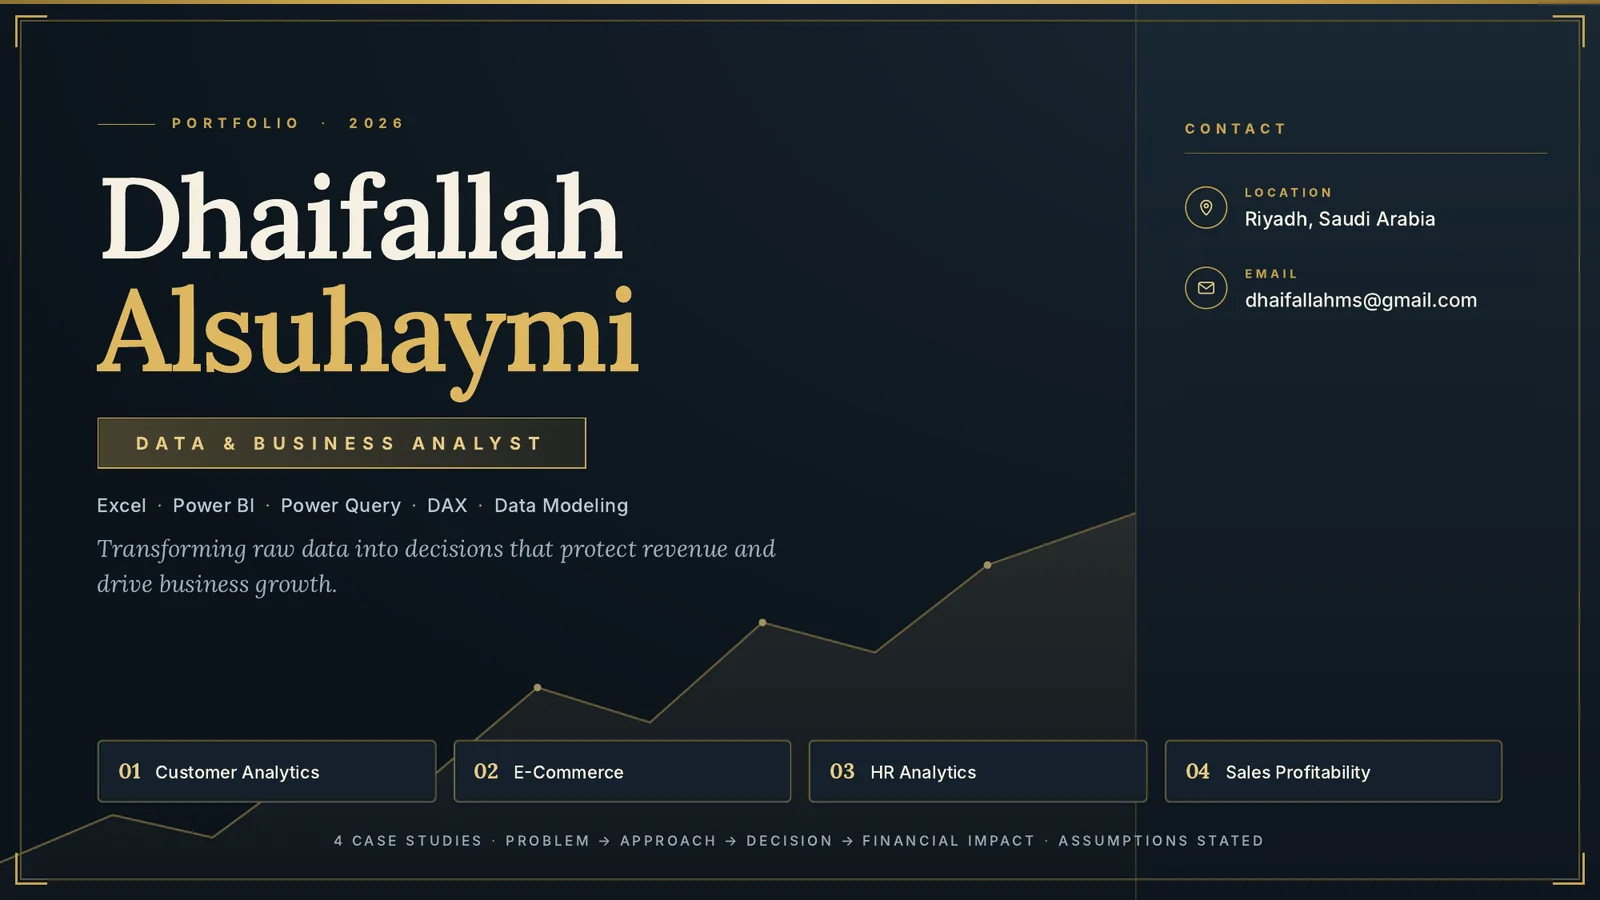
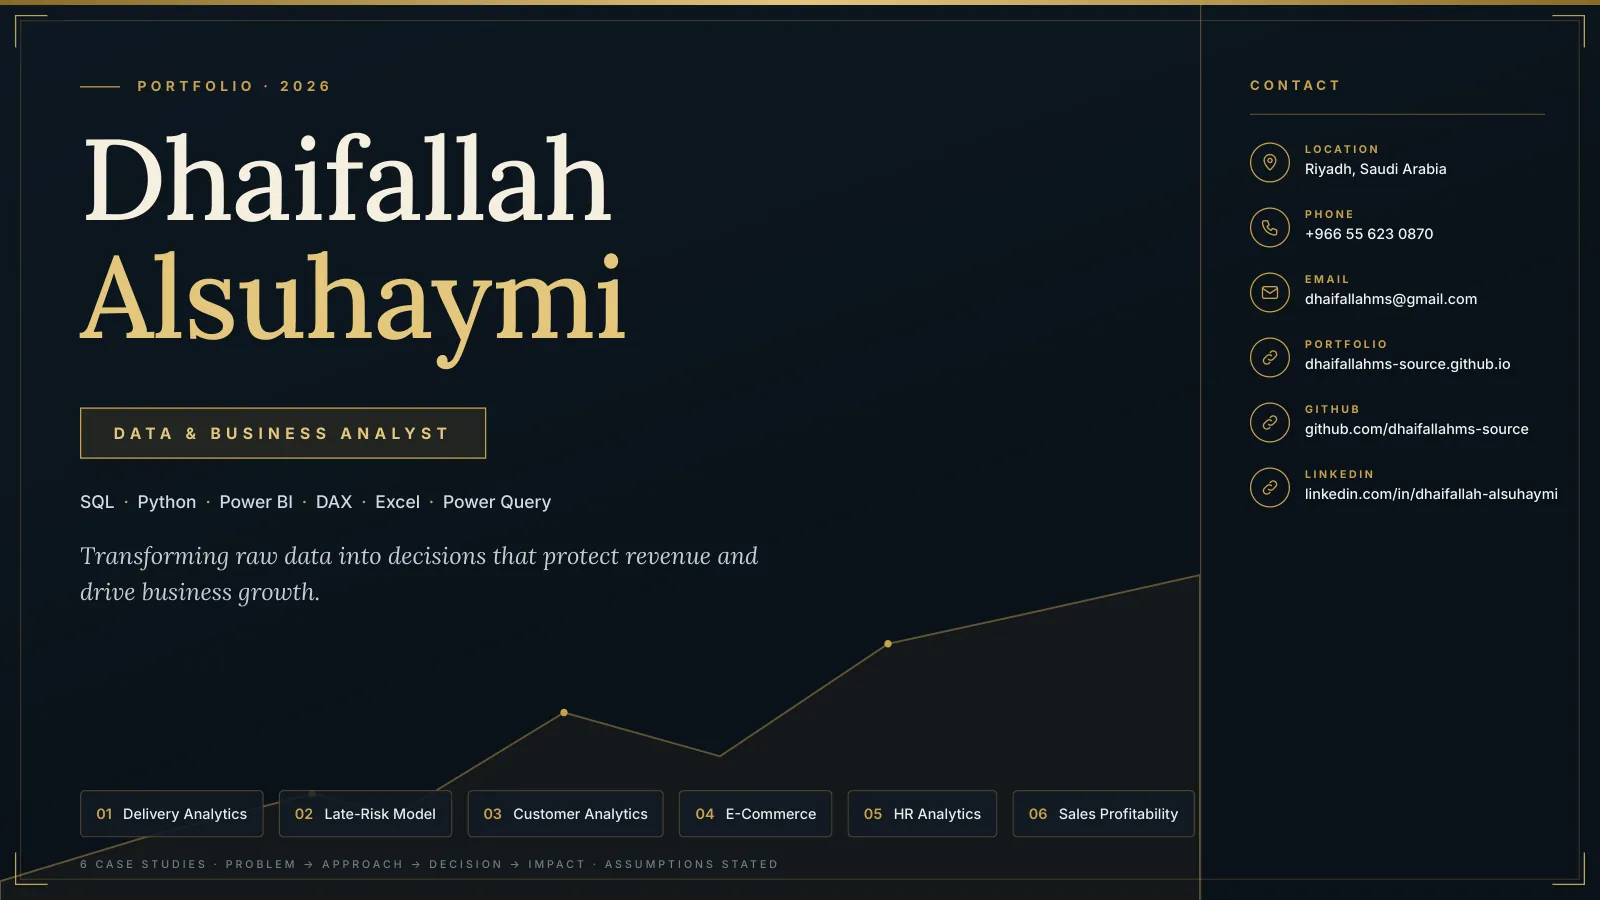
Add files via upload

diff --git a/index.html b/index.html
@@ -4,10 +4,10 @@
 <meta charset="utf-8">
 <meta name="viewport" content="width=device-width, initial-scale=1">
 <title>Dhaifallah Alsuhaymi · Data & Business Analyst Portfolio</title>
-<meta name="description" content="Data & Business Analyst portfolio: 4 case studies in Excel, Power Query, Power BI and DAX covering customer churn, e-commerce revenue, HR attrition and sales profitability.">
+<meta name="description" content="Data & Business Analyst portfolio: 6 projects in SQL Server, Python, Power BI and DAX covering delivery risk, customer churn, e-commerce revenue, HR attrition and sales profitability.">
 <meta property="og:type" content="website">
 <meta property="og:title" content="Dhaifallah Alsuhaymi · Data & Business Analyst">
-<meta property="og:description" content="4 case studies: problem → approach → decision → financial impact. Excel · Power BI · Power Query · DAX.">
+<meta property="og:description" content="6 projects: problem → approach → decision → financial impact. SQL Server · Python · Power BI · DAX.">
 <meta property="og:image" content="https://dhaifallahms-source.github.io/preview.jpg">
 <meta property="og:url" content="https://dhaifallahms-source.github.io/">
 <meta name="twitter:card" content="summary_large_image">
@@ -15,114 +15,117 @@
 <link rel="preconnect" href="https://fonts.gstatic.com" crossorigin>
 <link href="https://fonts.googleapis.com/css2?family=Inter:wght@400;500;600&family=Lora:wght@500;600&display=swap" rel="stylesheet">
 <style>
-  :root{--bg:#121c26;--panel:#18242f;--line:#2a3846;--gold:#c9a24b;--gold2:#e8cb84;--text:#f6f0e1;--muted:#9aacb9}
-  *{box-sizing:border-box;margin:0}
-  html{scroll-behavior:smooth}
-  body{background:var(--bg);color:var(--text);font:16px/1.6 Inter,system-ui,sans-serif;-webkit-font-smoothing:antialiased}
-  a{color:inherit}
-  .wrap{max-width:1120px;margin:0 auto;padding:0 20px}
-  header{padding:72px 0 48px;border-bottom:1px solid var(--line)}
-  .kicker{color:var(--gold);letter-spacing:.28em;font-size:12px;font-weight:600;text-transform:uppercase}
-  h1{font:600 clamp(40px,7vw,68px)/1.05 Lora,serif;margin:16px 0 12px}
-  h1 span{color:var(--gold2)}
-  .role{display:inline-block;border:1px solid var(--gold);color:var(--gold2);padding:6px 14px;letter-spacing:.2em;font-size:13px;font-weight:600;text-transform:uppercase}
-  .tools{color:var(--muted);margin-top:18px}
-  .tag{font:italic 500 19px/1.5 Lora,serif;margin-top:6px;max-width:620px}
-  .cta{display:flex;flex-wrap:wrap;gap:12px;margin-top:30px}
-  .btn{display:inline-flex;align-items:center;gap:8px;padding:12px 20px;font-weight:600;font-size:15px;text-decoration:none;border:1px solid var(--gold);transition:.2s}
-  .btn.primary{background:var(--gold);color:#121c26}
-  .btn.primary:hover{background:var(--gold2)}
-  .btn:not(.primary):hover{background:rgba(201,162,75,.12)}
-  section{padding:56px 0}
-  h2{font:600 28px/1.2 Lora,serif;margin-bottom:6px}
-  .sub{color:var(--muted);margin-bottom:28px}
-  .cards{display:grid;grid-template-columns:repeat(auto-fit,minmax(240px,1fr));gap:16px}
-  .card{display:block;background:var(--panel);border:1px solid var(--line);padding:22px;text-decoration:none;transition:.2s}
-  .card:hover{border-color:var(--gold);transform:translateY(-2px)}
-  .num{color:var(--gold2);font:600 14px Inter;letter-spacing:.1em}
-  .card h3{font:600 19px/1.3 Lora,serif;margin:8px 0}
-  .card p{color:var(--muted);font-size:14px}
-  .big{font:600 30px Lora,serif;color:var(--gold2);margin-top:14px}
-  .big small{display:block;font:500 12px Inter;color:var(--muted);letter-spacing:.04em}
-  .slides{display:grid;gap:22px}
-  figure{background:var(--panel);border:1px solid var(--line);scroll-margin-top:20px}
-  figure img{display:block;width:100%;height:auto;cursor:zoom-in}
-  img{-webkit-user-drag:none;user-select:none;-webkit-touch-callout:none}
-  figcaption{padding:10px 14px;color:var(--muted);font-size:13px;display:flex;justify-content:space-between;gap:12px}
-  footer{border-top:1px solid var(--line);padding:32px 0 48px;color:var(--muted);font-size:14px}
-  footer a{color:var(--gold2)}
-  dialog{border:0;padding:0;background:transparent;max-width:96vw;max-height:96vh}
-  dialog::backdrop{background:rgba(5,10,15,.92)}
-  dialog img{max-width:96vw;max-height:92vh;display:block}
-  dialog button{position:fixed;top:14px;right:18px;background:none;border:0;color:#fff;font-size:34px;cursor:pointer}
-  @media (max-width:600px){header{padding:48px 0 36px}section{padding:40px 0}.btn{flex:1;justify-content:center}}
+:root{--bg:#121c26;--panel:#18242f;--line:#2a3846;--gold:#c9a24b;--gold2:#e8cb84;--text:#f6f0e1;--muted:#9aacb9}
+*{box-sizing:border-box;margin:0}
+html{scroll-behavior:smooth}
+body{background:var(--bg);color:var(--text);font:16px/1.6 Inter,system-ui,sans-serif;-webkit-font-smoothing:antialiased}
+a{color:inherit}
+.wrap{max-width:1120px;margin:0 auto;padding:0 20px}
+header{padding:72px 0 48px;border-bottom:1px solid var(--line)}
+.kicker{color:var(--gold);letter-spacing:.28em;font-size:12px;font-weight:600;text-transform:uppercase}
+h1{font:600 clamp(40px,7vw,68px)/1.05 Lora,serif;margin:16px 0 12px}
+h1 span{color:var(--gold2)}
+.role{display:inline-block;border:1px solid var(--gold);color:var(--gold2);padding:6px 14px;letter-spacing:.2em;font-size:13px;font-weight:600;text-transform:uppercase}
+.tools{color:var(--muted);margin-top:18px}
+.tag{font:italic 500 19px/1.5 Lora,serif;margin-top:6px;max-width:620px}
+.cta{display:flex;flex-wrap:wrap;gap:12px;margin-top:30px}
+.btn{display:inline-flex;align-items:center;gap:8px;padding:12px 20px;font-weight:600;font-size:15px;text-decoration:none;border:1px solid var(--gold);transition:.2s}
+.btn.primary{background:var(--gold);color:#121c26}
+.btn.primary:hover{background:var(--gold2)}
+.btn:not(.primary):hover{background:rgba(201,162,75,.12)}
+section{padding:56px 0}
+h2{font:600 28px/1.2 Lora,serif;margin-bottom:6px}
+.sub{color:var(--muted);margin-bottom:28px}
+.cards{display:grid;grid-template-columns:repeat(auto-fit,minmax(240px,1fr));gap:16px}
+.card{display:block;background:var(--panel);border:1px solid var(--line);padding:22px;text-decoration:none;transition:.2s}
+.card:hover{border-color:var(--gold);transform:translateY(-2px)}
+.num{color:var(--gold2);font:600 14px Inter;letter-spacing:.1em}
+.card h3{font:600 19px/1.3 Lora,serif;margin:8px 0}
+.card p{color:var(--muted);font-size:14px}
+.big{font:600 30px Lora,serif;color:var(--gold2);margin-top:14px}
+.big small{display:block;font:500 12px Inter;color:var(--muted);letter-spacing:.04em}
+.slides{display:grid;gap:22px}
+figure{background:var(--panel);border:1px solid var(--line);scroll-margin-top:20px}
+figure img{display:block;width:100%;height:auto;cursor:zoom-in}
+img{-webkit-user-drag:none;user-select:none;-webkit-touch-callout:none}
+figcaption{padding:10px 14px;color:var(--muted);font-size:13px;display:flex;justify-content:space-between;gap:12px}
+footer{border-top:1px solid var(--line);padding:32px 0 48px;color:var(--muted);font-size:14px}
+footer a{color:var(--gold2)}
+dialog{border:0;padding:0;background:transparent;max-width:96vw;max-height:96vh}
+dialog::backdrop{background:rgba(5,10,15,.92)}
+dialog img{max-width:96vw;max-height:92vh;display:block}
+dialog button{position:fixed;top:14px;right:18px;background:none;border:0;color:#fff;font-size:34px;cursor:pointer}
+@media (max-width:600px){header{padding:48px 0 36px}section{padding:40px 0}.btn{flex:1;justify-content:center}}
 </style>
 </head>
 <body>
 <header>
-  <div class="wrap">
-    <div class="kicker">Portfolio · 2026 · Riyadh, Saudi Arabia</div>
-    <h1>Dhaifallah <span>Alsuhaymi</span></h1>
-    <div class="role">Data &amp; Business Analyst</div>
-    <p class="tools">Excel · Power BI · Power Query · DAX · SQL · Python (pandas, scikit-learn)</p>
-    <p class="tag">Transforming raw data into decisions that protect revenue and drive business growth.</p>
-    <div class="cta">
-      <a class="btn primary" href="#page-01">View Portfolio</a>
-      <a class="btn" href="https://github.com/dhaifallahms-source">GitHub</a>
-      <a class="btn" href="mailto:dhaifallahms@gmail.com">dhaifallahms@gmail.com</a>
-    </div>
-  </div>
+<div class="wrap">
+<div class="kicker">Portfolio · 2026 · Riyadh, Saudi Arabia</div>
+<h1>Dhaifallah <span>Alsuhaymi</span></h1>
+<div class="role">Data &amp; Business Analyst</div>
+<p class="tools">SQL Server (T-SQL) · Python (pandas, scikit-learn) · Power BI · DAX · Power Query · Excel</p>
+<p class="tag">Transforming raw data into decisions that protect revenue and drive business growth.</p>
+<div class="cta">
+<a class="btn primary" href="#page-01">View Portfolio</a>
+<a class="btn" href="Dhaifallah_Alsuhaymi_Portfolio.pdf" download>Download PDF</a>
+<a class="btn" href="https://github.com/dhaifallahms-source">GitHub</a>
+<a class="btn" href="mailto:dhaifallahms@gmail.com">dhaifallahms@gmail.com</a>
+</div>
+</div>
 </header>
 
 <section>
-  <div class="wrap">
-    <h2>Four Projects, One Pattern</h2>
-    <p class="sub">Problem → approach → decision → financial impact, with every assumption stated.</p>
-    <div class="cards">
-      <a class="card" href="#page-04"><div class="num">01</div><h3>Customer Churn</h3><p>64,374 records. Churn jumps from about 10% to 71% once payment delay passes 15 days.</p><div class="big">$15.8M<small>spend of churned customers · measured</small></div></a>
-      <a class="card" href="#page-07"><div class="num">02</div><h3>E-Commerce Revenue</h3><p>50,000 orders. Discounts up to 30% sold no extra units per order.</p><div class="big">$621K<small>recoverable at the same units · calculated</small></div></a>
-      <a class="card" href="#page-11"><div class="num">03</div><h3>HR Attrition Risk</h3><p>1,470 employees. Overtime staff leave at 3x the rate; 309 flagged high risk.</p><div class="big">≈$6.8M<small>est. annual cost of exits · assumed</small></div></a>
-      <a class="card" href="#page-14"><div class="num">04</div><h3>Sales Profitability</h3><p>Rebuilt dashboard exposed a 5.6x seasonal gap and negative margins on deep discounts.</p><div class="big">−127%<small>margin at 61%+ discount · measured</small></div></a>
-    </div>
-  </div>
+<div class="wrap">
+<h2>Six Projects, One Pattern</h2>
+<p class="sub">Problem → approach → decision → financial impact, with every assumption stated.</p>
+<div class="cards">
+<a class="card" href="#page-04"><div class="num">SQL SERVER</div><h3>Olist: Late Deliveries &amp; Reviews</h3><p>96,470 delivered orders. Late orders average 2.57 stars vs 4.29 on time, and late buyers reorder less (z = -2.99).</p><div class="big">8.11%<small>of delivered orders arrive late · measured</small></div></a>
+<a class="card" href="#page-06"><div class="num">PYTHON</div><h3>Olist: Late-Delivery Risk Model</h3><p>Purchase-time features rank order risk (ROC-AUC 0.756, 0.675 on future orders). The riskiest 10% are late 27.9% of the time vs 1.5% for the lowest 10%.</p><div class="big">34%<small>of late orders caught in the riskiest 10% · measured</small></div></a>
+<a class="card" href="#page-08"><div class="num">POWER BI</div><h3>Customer Churn</h3><p>64,374 records. Churn jumps from about 10% to 71% once payment delay passes 15 days.</p><div class="big">$15.8M<small>spend of churned customers · measured</small></div></a>
+<a class="card" href="#page-11"><div class="num">POWER BI</div><h3>E-Commerce Revenue</h3><p>50,000 orders. Discounts up to 30% sold no extra units per order.</p><div class="big">$621K<small>recoverable at the same units · calculated</small></div></a>
+<a class="card" href="#page-15"><div class="num">POWER BI</div><h3>HR Attrition Risk</h3><p>1,470 employees. Overtime staff leave at 3x the rate; 309 flagged high risk.</p><div class="big">≈$6.8M<small>est. annual cost of exits · assumed</small></div></a>
+<a class="card" href="#page-18"><div class="num">POWER BI</div><h3>Sales Profitability</h3><p>Rebuilt dashboard exposed a 5.6x seasonal gap and negative margins on deep discounts.</p><div class="big">−127%<small>margin at 61%+ discount · measured</small></div></a>
+</div>
+</div>
 </section>
 
 <section style="padding-top:0">
-  <div class="wrap">
-    <h2>Code &amp; Dashboards on GitHub</h2>
-    <p class="sub">Open the SQL scripts, the Python notebook and the Power BI files behind the case studies.</p>
-    <div class="cards">
-      <a class="card" href="https://github.com/dhaifallahms-source/olist-sql-delivery-analysis" target="_blank" rel="noopener"><div class="num">SQL</div><h3>Olist: Late Deliveries &amp; Reviews</h3><p>SQL Server analysis of 100k orders: JOINs, CTEs, window functions and a z-test. Late orders average 2.57 stars vs 4.29 on time.</p><div class="big">8.11%<small>of delivered orders arrive late · measured</small></div></a>
-      <a class="card" href="https://github.com/dhaifallahms-source/olist-sql-delivery-analysis/tree/main/python" target="_blank" rel="noopener"><div class="num">PYTHON</div><h3>Olist: Late-Delivery Risk Model</h3><p>pandas and scikit-learn on 96k delivered orders: purchase-time features rank risk (ROC-AUC 0.756). Includes a 4-page interactive dashboard.</p><div class="big">27.9%<small>late in the riskiest 10% of orders vs 1.5% in the lowest · measured</small></div></a>
-      <a class="card" href="https://dhaifallahms-source.github.io/olist-sql-delivery-analysis/dashboard/" target="_blank" rel="noopener"><div class="num">LIVE DASHBOARD</div><h3>Interactive Late-Delivery Dashboard</h3><p>Four pages built in HTML and JavaScript: overview, model, a what-if scenario with sliders, and routes. Runs in the browser, no install.</p><div class="big">4<small>interactive pages · Olist public data</small></div></a>
-      <a class="card" href="https://github.com/dhaifallahms-source/powerbi-case-studies" target="_blank" rel="noopener"><div class="num">POWER BI</div><h3>Four Power BI Case Studies</h3><p>Dashboard screenshots, .pbix files and a write-up for each project: churn, e-commerce revenue, HR attrition and sales profitability.</p><div class="big">4<small>projects with downloadable .pbix files</small></div></a>
-    </div>
-  </div>
+<div class="wrap">
+<h2>Code &amp; Dashboards on GitHub</h2>
+<p class="sub">Open the SQL scripts, the Python notebook and the Power BI files behind the case studies.</p>
+<div class="cards">
+<a class="card" href="https://github.com/dhaifallahms-source/olist-sql-delivery-analysis" target="_blank" rel="noopener"><div class="num">SQL</div><h3>Olist: Late Deliveries &amp; Reviews</h3><p>SQL Server analysis of 100k orders: JOINs, CTEs, window functions and a z-test. Late orders average 2.57 stars vs 4.29 on time.</p><div class="big">8.11%<small>of delivered orders arrive late · measured</small></div></a>
+<a class="card" href="https://github.com/dhaifallahms-source/olist-sql-delivery-analysis/tree/main/python" target="_blank" rel="noopener"><div class="num">PYTHON</div><h3>Olist: Late-Delivery Risk Model</h3><p>pandas and scikit-learn on 96k delivered orders: purchase-time features rank risk (ROC-AUC 0.756). Includes a 4-page interactive dashboard.</p><div class="big">27.9%<small>late in the riskiest 10% of orders vs 1.5% in the lowest · measured</small></div></a>
+<a class="card" href="https://dhaifallahms-source.github.io/olist-sql-delivery-analysis/dashboard/" target="_blank" rel="noopener"><div class="num">LIVE DASHBOARD</div><h3>Interactive Late-Delivery Dashboard</h3><p>Four pages built in HTML and JavaScript: overview, model, a what-if scenario with sliders, and routes. Runs in the browser, no install.</p><div class="big">4<small>interactive pages · Olist public data</small></div></a>
+<a class="card" href="https://github.com/dhaifallahms-source/powerbi-case-studies" target="_blank" rel="noopener"><div class="num">POWER BI</div><h3>Four Power BI Case Studies</h3><p>Dashboard screenshots, .pbix files and a write-up for each project: churn, e-commerce revenue, HR attrition and sales profitability.</p><div class="big">4<small>projects with downloadable .pbix files</small></div></a>
+</div>
+</div>
 </section>
 
 <section style="padding-top:0">
-  <div class="wrap">
-    <h2>Full Portfolio</h2>
-    <p class="sub">18 pages. Tap any page to enlarge.</p>
-    <div class="slides" id="slides"></div>
-  </div>
+<div class="wrap">
+<h2>Full Portfolio</h2>
+<p class="sub">22 pages. Tap any page to enlarge, or <a href="Dhaifallah_Alsuhaymi_Portfolio.pdf" download style="color:var(--gold2)">download the PDF</a>.</p>
+<div class="slides" id="slides"></div>
+</div>
 </section>
 
 <footer>
-  <div class="wrap">Open to Data Analyst and Business Analyst roles in Riyadh · <a href="mailto:dhaifallahms@gmail.com">dhaifallahms@gmail.com</a><br>All projects use public Kaggle datasets; dollar figures are scenario estimates, not realized results.</div>
+<div class="wrap">Open to Data Analyst and Business Analyst roles in Riyadh · <a href="mailto:dhaifallahms@gmail.com">dhaifallahms@gmail.com</a><br>All projects use public Kaggle datasets; dollar figures are scenario estimates, not realized results.</div>
 </footer>
 
 <dialog id="zoom"><button aria-label="Close" onclick="zoom.close()">&times;</button><img alt=""></dialog>
 
 <script>
-  const titles=["Cover","Analyst Profile","Portfolio at a Glance","Case Study 01 · Customer Churn","Case Study 01 · Key Insights","Case Study 01 · Dashboard","Case Study 02 · E-Commerce Revenue","Case Study 02 · Key Insights","Case Study 02 · Sales Dashboard","Case Study 02 · Products & Payments","Case Study 03 · HR Attrition Risk","Case Study 03 · Key Insights","Case Study 03 · Dashboard","Case Study 04 · Sales Dashboard Rebuild","Case Study 04 · Key Insights","Case Study 04 · Dashboard","Method & Assumptions","Impact Summary"];
-  const box=document.getElementById('slides'),zoom=document.getElementById('zoom'),zimg=zoom.querySelector('img');
-  titles.forEach((t,i)=>{const n=String(i+1).padStart(2,'0');const f=document.createElement('figure');f.id='page-'+n;
-    f.innerHTML=`<img src="page-${n}.webp" width="1600" height="900" alt="${t}" ${i>1?'loading="lazy"':''}><figcaption><span>${t}</span><span>${n} / 18</span></figcaption>`;
-    f.querySelector('img').onclick=e=>{zimg.src=e.target.src;zimg.alt=t;zoom.showModal()};box.appendChild(f)});
-  zoom.onclick=e=>{if(e.target===zoom)zoom.close()};
-  document.addEventListener('contextmenu',e=>{if(e.target.tagName==='IMG')e.preventDefault()});
-  document.addEventListener('dragstart',e=>{if(e.target.tagName==='IMG')e.preventDefault()});
+const titles=["Cover","Analyst Profile","Portfolio at a Glance","Olist · Late Deliveries & Reviews (SQL)","Olist · Key Insights","Olist · Late-Delivery Risk Model (Python)","Olist · Live Dashboard","Case Study 01 · Customer Churn","Case Study 01 · Key Insights","Case Study 01 · Dashboard","Case Study 02 · E-Commerce Revenue","Case Study 02 · Key Insights","Case Study 02 · Sales Dashboard","Case Study 02 · Products & Payments","Case Study 03 · HR Attrition Risk","Case Study 03 · Key Insights","Case Study 03 · Dashboard","Case Study 04 · Sales Dashboard Rebuild","Case Study 04 · Key Insights","Case Study 04 · Dashboard","Method & Assumptions","Impact Summary"];
+const box=document.getElementById('slides'),zoom=document.getElementById('zoom'),zimg=zoom.querySelector('img');
+titles.forEach((t,i)=>{const n=String(i+1).padStart(2,'0');const f=document.createElement('figure');f.id='page-'+n;
+f.innerHTML=`<img src="page-${n}.webp" width="1600" height="900" alt="${t}" ${i>1?'loading="lazy"':''}><figcaption><span>${t}</span><span>${n} / 22</span></figcaption>`;
+f.querySelector('img').onclick=e=>{zimg.src=e.target.src;zimg.alt=t;zoom.showModal()};box.appendChild(f)});
+zoom.onclick=e=>{if(e.target===zoom)zoom.close()};
+document.addEventListener('contextmenu',e=>{if(e.target.tagName==='IMG')e.preventDefault()});
+document.addEventListener('dragstart',e=>{if(e.target.tagName==='IMG')e.preventDefault()});
 </script>
 </body>
 </html>
